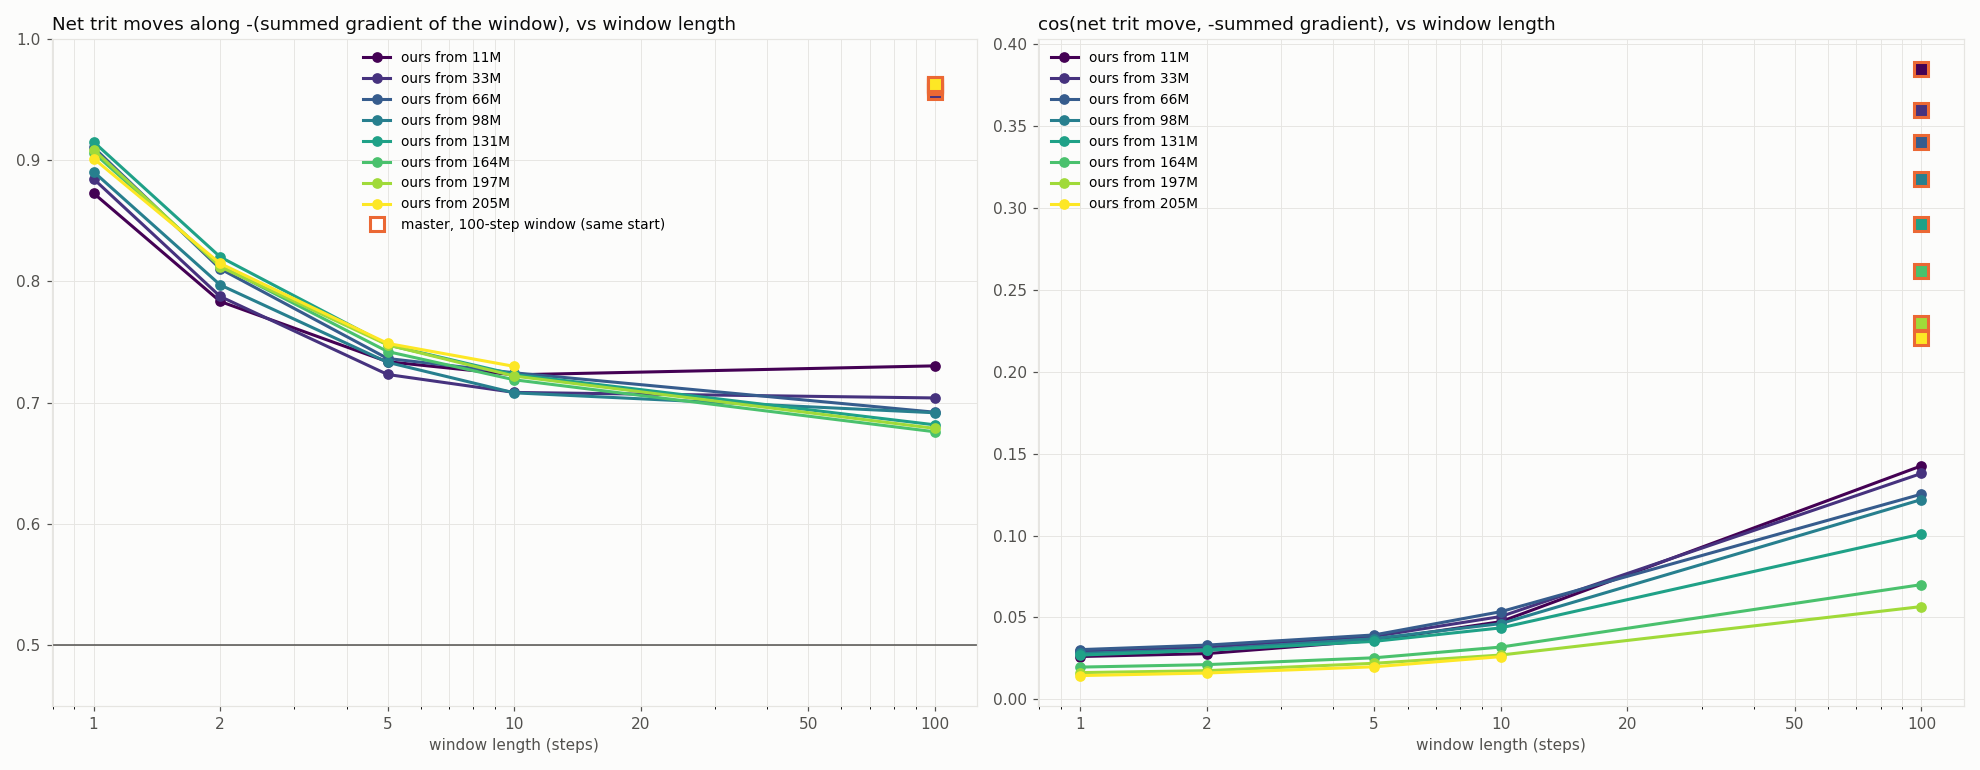
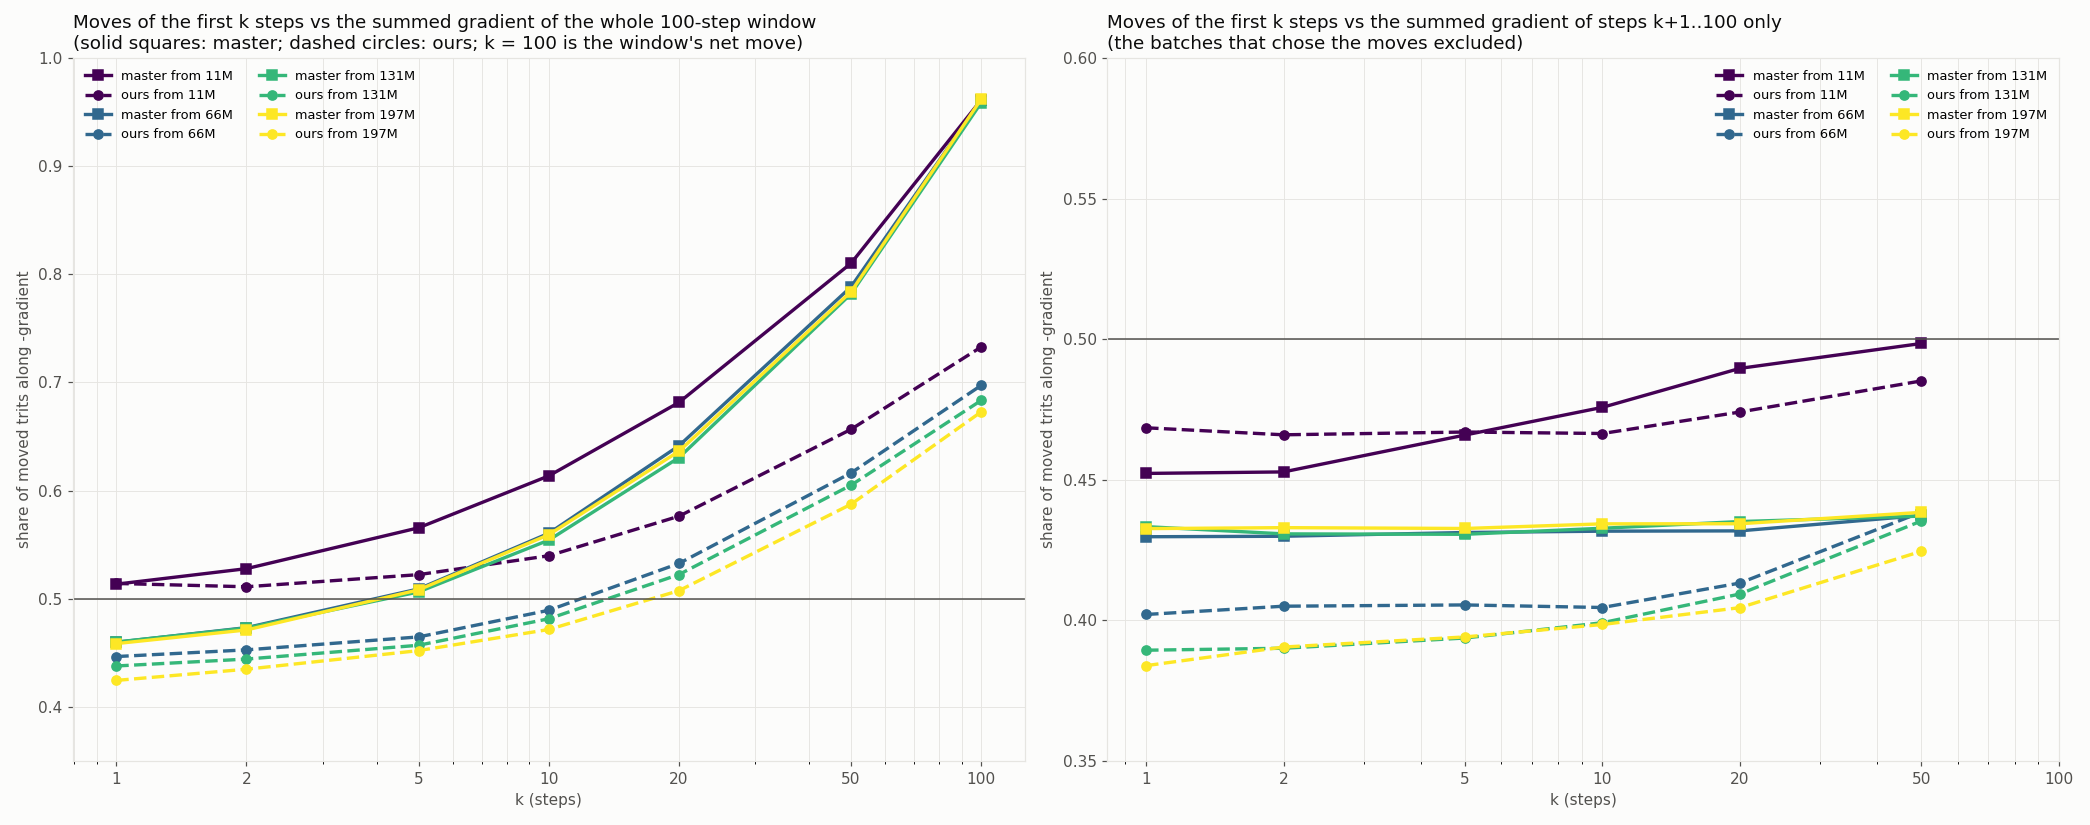
Ours vs master: k-step moves against the 100-step gradient

diff --git a/scripts/plots/plot_window_curves.py b/scripts/plots/plot_window_curves.py
@@ -1,58 +1,56 @@
-"""Agreement of the net trit move with the summed gradient vs window length, from several starting points
-along training. Ours: 10-step continuations from the momentum run's checkpoints (1, 2, 5, 10) plus the
-100-step windows of the replay; master: 100-step windows of master_tracked (and short windows once measured).
+"""Net trit moves of the first k steps of a 100-step window, scored against the summed gradient of the
+whole window (left) and of its later part only, excluding the batches that chose the moves (right).
+Ours: 100-step continuations from the momentum run's checkpoints; master: windows opened at the same
+steps in a master run with the same batches.
 
   python -m scripts.plots.plot_window_curves
 """
-import json, os, glob
+import json, os
 import numpy as np
 import matplotlib
 matplotlib.use("Agg")
 import matplotlib.pyplot as plt
 
 SURFACE, INK, INK2, GRID = "#fcfcfb", "#0b0b0b", "#52514e", "#e6e5e1"
-STARTS = [340, 1000, 2000, 3000, 4000, 5000, 6000, 6243]
+KS = [1, 2, 5, 10, 20, 50]
+
+
+def get(d):
+    out = {}
+    if os.path.exists(f"checkpoints/{d}/metrics.jsonl"):
+        for r in map(json.loads, open(f"checkpoints/{d}/metrics.jsonl")):
+            if "c100_d1_agree" in r:
+                out[r["c_start"]] = r
+    return out
+
+
+M = get("curve_master"); O = {}
+for s in (340, 2000, 4000, 6000):
+    O.update(get(f"curve100_ours_{s}"))
+fig, (a1, a2) = plt.subplots(1, 2, figsize=(19, 7.5), facecolor=SURFACE)
 cm = plt.get_cmap("viridis")
-
-
-def win100(d, s):
-    W = {r["step"]: r for r in map(json.loads, open(f"checkpoints/{d}/metrics.jsonl")) if "w_steps" in r}
-    ks = [k for k in W if s < k <= s + 150]
-    return W[min(ks)] if ks else None
-
-
-def curve(d):
-    R = {}
-    for r in map(json.loads, open(f"checkpoints/{d}/metrics.jsonl")):
-        R.update({k: v for k, v in r.items() if k.startswith("c") and isinstance(v, float)})
-    return R
-
-
-fig, (a1, a2) = plt.subplots(1, 2, figsize=(18, 7), facecolor=SURFACE)
-for j, s in enumerate(STARTS):
-    if not os.path.exists(f"checkpoints/curve_ours_{s}/metrics.jsonl"): continue
-    R = curve(f"curve_ours_{s}"); w = win100("r4090_replay_11M_205M", s)
-    Ws = [1, 2, 5, 10] + ([100] if w else [])
-    col = cm(j / (len(STARTS) - 1)); lab = f"ours from {(s + 1) * 32768 / 1e6:.0f}M"
-    a1.plot(Ws, [R[f"c{W}_agree_S"] for W in (1, 2, 5, 10)] + ([w["w_agree_S"]] if w else []), "o-", color=col, lw=2, label=lab)
-    a2.plot(Ws, [R[f"c{W}_cos_S"] for W in (1, 2, 5, 10)] + ([w["w_cos_S"]] if w else []), "o-", color=col, lw=2, label=lab)
-    m = win100("master_tracked", s)
-    if m:
-        a1.plot([100], [m["w_agree_S"]], "s", color=col, ms=9, mec="#eb6834", mew=2)
-        a2.plot([100], [m["w_cos_S"]], "s", color=col, ms=9, mec="#eb6834", mew=2)
-if os.path.exists("checkpoints/curve_master/metrics.jsonl"):
-    pass  # master's short windows, once measured (scripts/remote/master_curve.sh)
-a1.axhline(0.5, color=INK2, lw=1)
-a1.plot([], [], "s", color="white", mec="#eb6834", mew=2, ms=9, label="master, 100-step window (same start)")
-a1.set_title("Net trit moves along -(summed gradient of the window), vs window length", loc="left", color=INK)
-a2.set_title("cos(net trit move, -summed gradient), vs window length", loc="left", color=INK)
+starts = [340, 2000, 4000, 6000]
+for j, s in enumerate(starts):
+    col = cm(j / (len(starts) - 1)); tok = f"{(s + 1) * 32768 / 1e6:.0f}M"
+    for D, ls, mk, who in ((M, "-", "s", "master"), (O, "--", "o", "ours")):
+        if s not in D: continue
+        r = D[s]
+        a1.plot(KS + [100], [r[f"c100_d{k}_agree"] for k in KS] + [r["c100_agree_S"]], ls, marker=mk, color=col,
+                lw=2.2, ms=6, label=f"{who} from {tok}")
+        a2.plot(KS, [r[f"c100_d{k}_agree_later"] for k in KS], ls, marker=mk, color=col, lw=2.2, ms=6,
+                label=f"{who} from {tok}")
+a1.set_title("Moves of the first k steps vs the summed gradient of the whole 100-step window\n"
+             "(solid squares: master; dashed circles: ours; k = 100 is the window's net move)", loc="left", color=INK)
+a2.set_title("Moves of the first k steps vs the summed gradient of steps k+1..100 only\n"
+             "(the batches that chose the moves excluded)", loc="left", color=INK)
 for ax in (a1, a2):
+    ax.axhline(0.5, color=INK2, lw=1)
     ax.set_xscale("log"); ax.set_xticks([1, 2, 5, 10, 20, 50, 100]); ax.set_xticklabels(["1", "2", "5", "10", "20", "50", "100"])
-    ax.set_xlabel("window length (steps)", color=INK2); ax.set_facecolor(SURFACE)
-    ax.grid(True, which="both", color=GRID, lw=0.6); ax.tick_params(colors=INK2)
+    ax.set_xlabel("k (steps)", color=INK2); ax.set_ylabel("share of moved trits along -gradient", color=INK2)
+    ax.set_facecolor(SURFACE); ax.grid(True, which="both", color=GRID, lw=0.6); ax.tick_params(colors=INK2)
     for sp in ax.spines.values(): sp.set_color(GRID)
-    ax.legend(fontsize=9, frameon=False)
-a1.set_ylim(0.45, 1.0)
+    ax.legend(fontsize=8.5, frameon=False, ncol=2)
+a1.set_ylim(0.35, 1.0); a2.set_ylim(0.35, 0.6)
 fig.tight_layout()
 fig.savefig("docs/figures/window_curves.png", dpi=110, facecolor=SURFACE)
 print("wrote docs/figures/window_curves.png")

diff --git a/docs/RUNS.md b/docs/RUNS.md
@@ -1212,3 +1212,28 @@ window (cos -0.10 to -0.13; coherence 0.5-0.64 < 1), ours is not (~0; coherence 
   (M proposal + two-batch filter), and ~30% of the net moves oppose the window's gradient.
 - Master changes 4-5x more trits per step, 81-98% of them reversals (latent weights sitting on a
   threshold flip back and forth), and still moves more trits net per window (1.5-1.9x).
+
+### Moves of the first k steps vs the 100-step summed gradient, ours vs master (`docs/figures/window_curves.png`)
+
+Windows opened at 11M, 66M, 131M, 197M (ours: 100-step continuations from the momentum run's
+checkpoints; master: `curve_master`, a master run measuring at the same steps, same batches).
+
+| start | run | k=1 | 2 | 5 | 10 | 20 | 50 | net 100 | later-only k=1 | k=50 |
+|---|---|---|---|---|---|---|---|---|---|---|
+| 11M | ours | 0.51 | 0.51 | 0.52 | 0.54 | 0.58 | 0.66 | 0.73 | 0.47 | 0.49 |
+| 11M | master | 0.51 | 0.53 | 0.57 | 0.61 | 0.68 | 0.81 | 0.96 | 0.45 | 0.50 |
+| 66M | ours | 0.45 | 0.45 | 0.47 | 0.49 | 0.53 | 0.62 | 0.70 | 0.40 | 0.44 |
+| 66M | master | 0.46 | 0.47 | 0.51 | 0.56 | 0.64 | 0.79 | 0.96 | 0.43 | 0.44 |
+| 197M | ours | 0.42 | 0.44 | 0.45 | 0.47 | 0.51 | 0.59 | 0.67 | 0.38 | 0.43 |
+| 197M | master | 0.46 | 0.47 | 0.51 | 0.56 | 0.64 | 0.78 | 0.96 | 0.43 | 0.44 |
+
+- Single steps: master's moves are no better than ours against the window's gradient (0.46 vs
+  0.42-0.45, both at or below chance). Against the later batches alone both are below 0.5: the
+  gradients that follow a move push it back (overshoot), master (~0.43) somewhat less than ours
+  (~0.38-0.40).
+- The difference builds with k: at 10 steps 0.56 vs 0.47-0.49, at 50 0.78 vs 0.59-0.62, over the
+  window 0.96 vs 0.67-0.73. Master's trit at the end of a window is the rounding of a latent weight
+  that has integrated the window's (Adam-normalized) gradient, so its net moves follow that gradient
+  by construction; unsupported moves are undone (81-98% of its flips are reversals). Our trit state
+  is not a function of the accumulated gradient: a flip, once made, stays unless a later step happens
+  to propose and keep the reverse.
